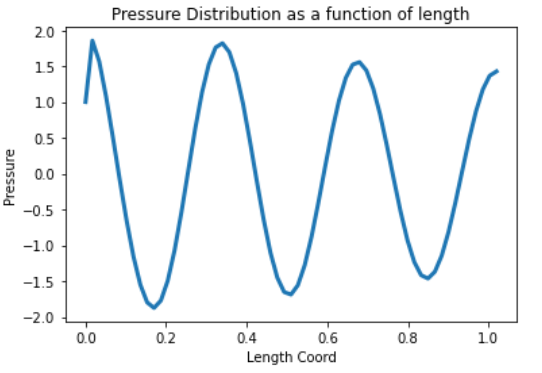
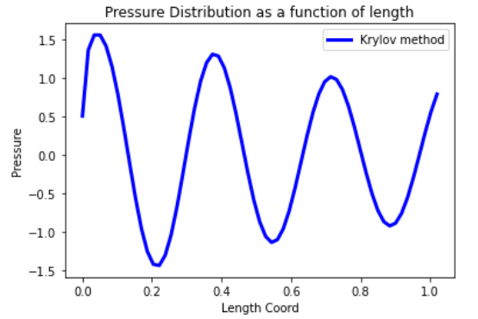
update example doc

Changed region(s): [[0.0, 0.0, 0.9665, 0.9875]]

diff --git a/doc/source/examples/extended_examples/Krylov/Harmonic_Analysis_using_krylov_pymapdl.rst b/doc/source/examples/extended_examples/Krylov/Harmonic_Analysis_using_krylov_pymapdl.rst
@@ -29,6 +29,7 @@ and output impedance on other end.
 
     import os
     import numpy as np
+    import math
     import matplotlib.pyplot as plt
     from ansys.mapdl.core import launch_mapdl
 
@@ -189,7 +190,7 @@ Perform Modal Analysis to study the natural modes of the system
     ev = mm.eigs(nev, k, M, phi=A, fmin=1.0)
     for i in range(nev):
         f = ev[i]  # Eigenfrequency (Hz)
-        print(f"[{i}] : Freq = {f:8.2f} Hz")
+         print(f"[{i}] : Freq = {f:8.2f} Hz")
 
 
 .. parsed-literal::
@@ -305,9 +306,13 @@ Results : Pressure Distribution as a function of length
     substep_index = 99
     for each_node, loc in zip(ind, coords):
         index_num = np.where(res[substep_index]['node'] == each_node)
-        pressure = res[substep_index][index_num]['x']
+        pressure = res[substep_index][index_num]['x'][0]
+        #Calculate amplitude at 60 deg
+        magnitude = abs(pressure)
+        phase = math.atan2(pressure.imag,pressure.real)
+        pressure_a = magnitude * np.cos(np.deg2rad(60)+phase)
         x_data.append(loc[0])
-        y_data.append(pressure)
+        y_data.append(pressure_a)
 
 .. code:: ipython3
 
@@ -316,13 +321,19 @@ Results : Pressure Distribution as a function of length
 
 .. code:: ipython3
 
-    # Plot X-Y Graph
-    plt.plot(sorted_x_data, sorted_y_data, linewidth= 3.0)
+    # Plotting the curve
+    plt.plot(sorted_x_data, sorted_y_data, linewidth= 3.0, color='b', label='Krylov method')
+    
+    # Naming the x-axis, y-axis and the whole graph
     plt.title("Pressure Distribution as a function of length")
     plt.xlabel("Length Coord")
     plt.ylabel("Pressure")
+    
+    # Adding legend
+    plt.legend()
+    
+    # To load the display window
     plt.show()
-
 
 
 .. image:: /examples/extended_examples/Krylov/Harmonic_Analysis_using_krylov_pymapdl_files/Harmonic_Analysis_using_krylov_pymapdl_36_1.png
@@ -356,10 +367,19 @@ Results : Plot Frequency response Function
     frf_x, frf_y = zip(*frf_List) 
         
         
-    plt.plot(frf_x, frf_y, linewidth= 3.0)
+    # Plotting the curve    
+    plt.plot(frf_x, frf_y, linewidth= 3.0, color='b')
+
+    #Plot the natural frequency as vertical lines on the FRF graph
+    for itr in range(0,6):
+        plt.axvline(x=ev[itr], ymin=0,ymax=2, color='r', linestyle='dotted', linewidth=1)
+        
+    # Naming the x-axis, y-axis and the whole graph
     plt.title("Frequency Response Function")
     plt.xlabel("Frequency (HZ)")
     plt.ylabel("Pressure")
+
+    # To load the display window
     plt.show()
 
 
